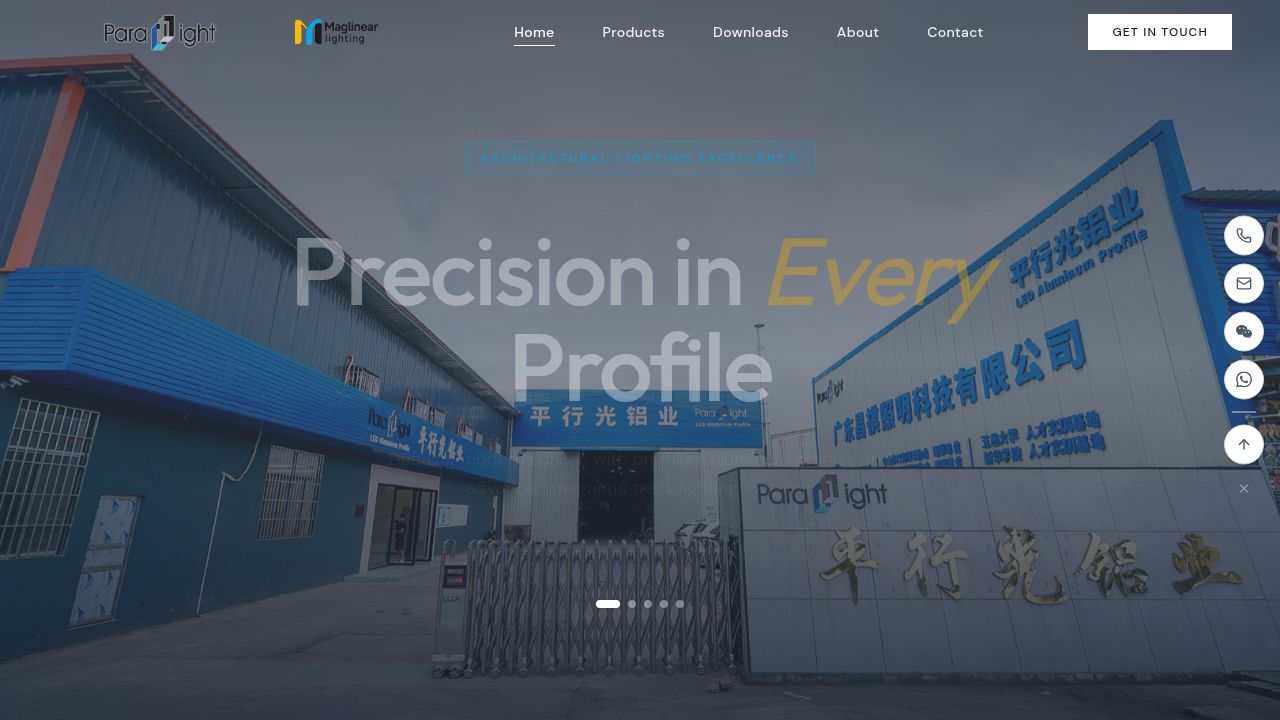
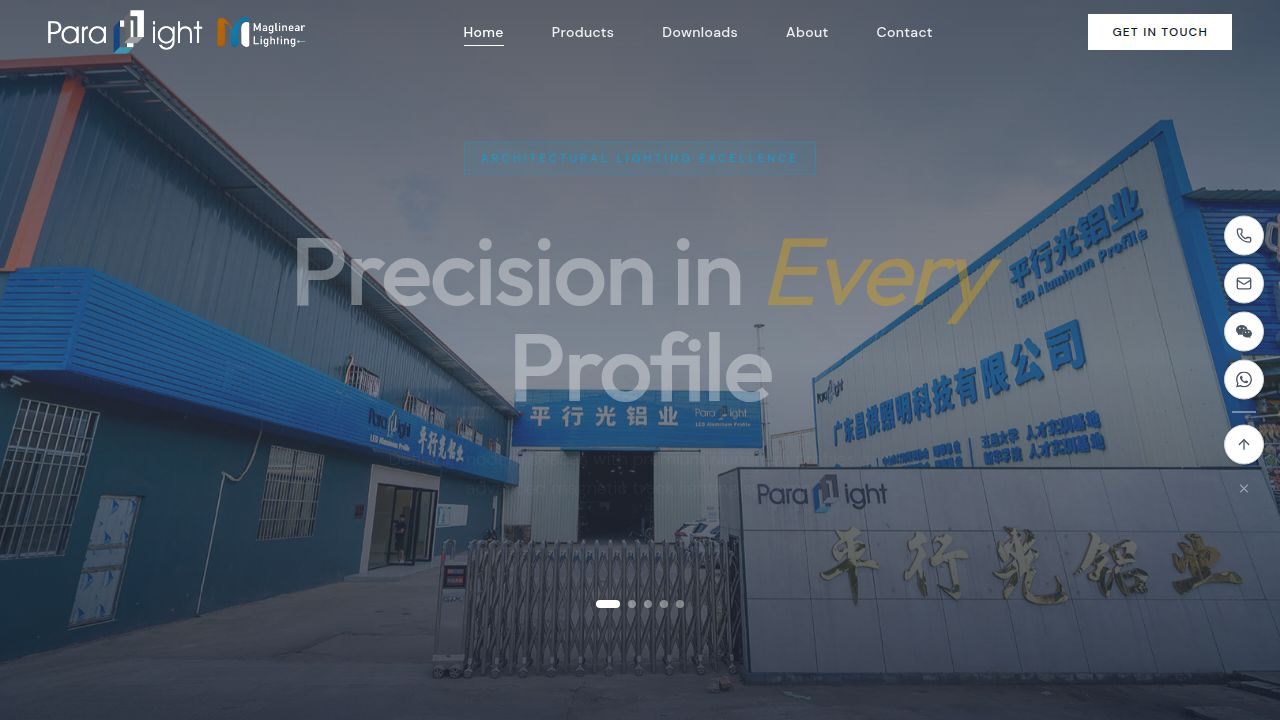
Update Paralight hero image with zoom effect
Replaced the Paralight hero image with a new asset and applied a scale-125 class to implement a zoom effect in Products.tsx.

Replit-Commit-Author: Agent
Replit-Commit-Session-Id: c7815556-576f-42d7-b816-33c94432ab33
Replit-Commit-Checkpoint-Type: full_checkpoint
Replit-Commit-Event-Id: 72802099-0c71-4be1-8e3b-26fc8ad55604
Replit-Commit-Screenshot-Url: https://storage.googleapis.com/screenshot-production-us-central1/d7454a2c-912c-46eb-af8e-019f96d76874/c7815556-576f-42d7-b816-33c94432ab33/aqD1rW9
Replit-Helium-Checkpoint-Created: true

Changed region(s): [[0.375, 0.0306, 0.7812, 0.0611], [0.0312, 0.0, 0.3125, 0.0917]]

diff --git a/client/src/pages/Products.tsx b/client/src/pages/Products.tsx
@@ -358,7 +358,7 @@ export default function Products() {
             <img
               src="/paralight-hero.png"
               alt="Paralight Aluminum Profiles"
-              className="absolute inset-0 w-full h-full object-cover"
+              className="absolute inset-0 w-full h-full object-cover scale-125"
             />
             <div className="absolute inset-0 bg-gradient-to-b from-gray-900/40 via-transparent to-gray-900/60" />
           </motion.div>
